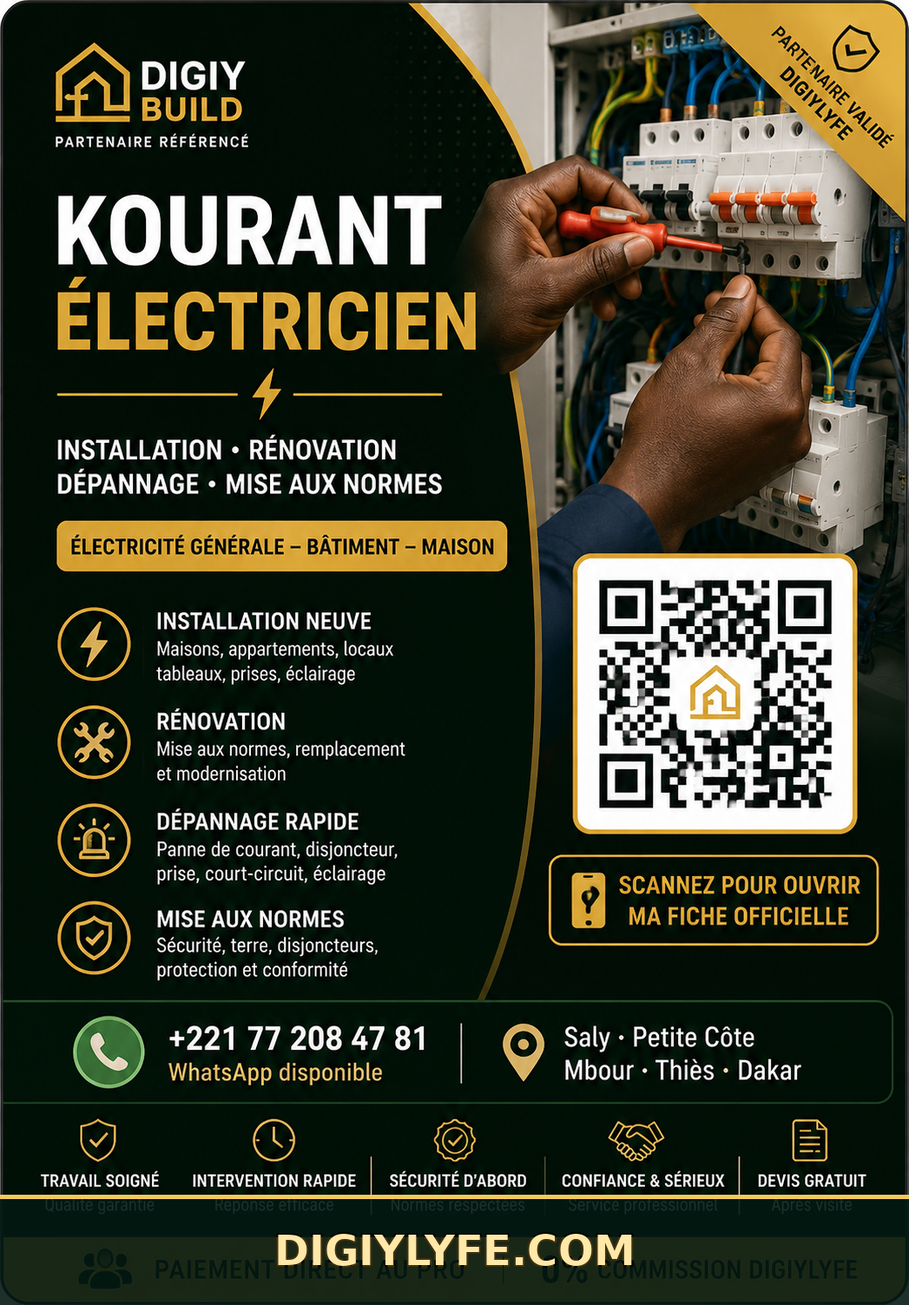
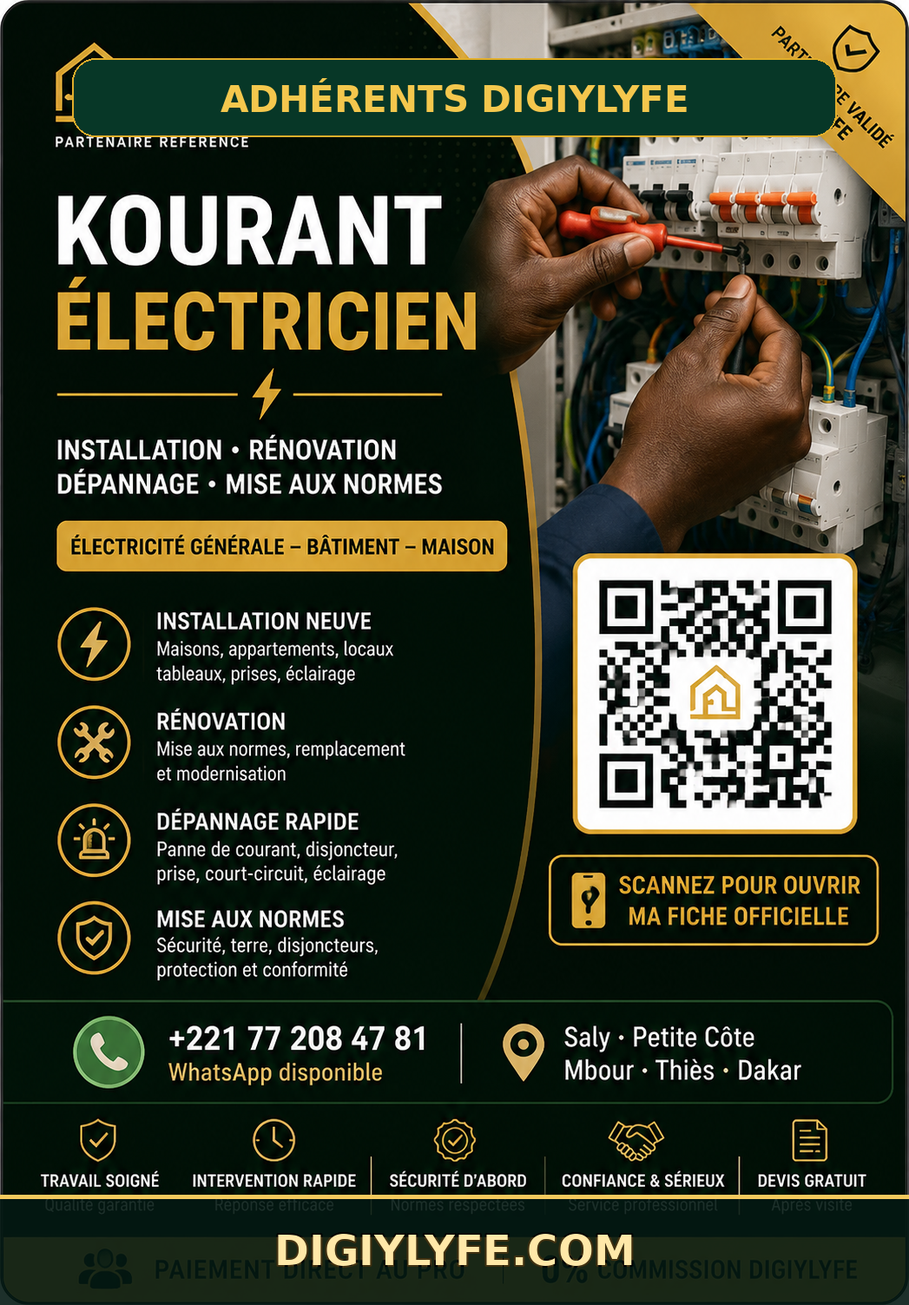
Kourant : carte et index en statut adhérent
* Ajouter correction temporaire Kourant adhérent

* Kourant : adhérents DIGIYLYFE et wording neutre

* Ajouter nettoyage final wording Kourant

* Kourant : finir le wording adhérent multilingue

* Nettoyer workflow temporaire Kourant

* Nettoyer workflow temporaire Kourant

---------

Changed region(s): [[0.0611, 0.0306, 0.9169, 0.1224]]

diff --git a/index.html b/index.html
@@ -18,19 +18,19 @@
 <body>
 <div class="wrap">
 <header class="topbar"><div class="brand"><div class="logo"><img alt="Logo DIGIYLYFE" src="https://digiylyfe.net/wp-content/uploads/2026/03/digiylyfe_logo_qr.jpeg"></div><div><div class="kicker" id="kicker"></div><div class="title">Zal &amp; Kourant</div><div class="sub" id="sub"></div></div></div><div class="lang"><button data-lang="fr">FR</button><button data-lang="en">EN</button><button data-lang="es">ES</button><button data-lang="de">DE</button><button data-lang="it">IT</button><button data-lang="nl">NL</button><button data-lang="ar">AR</button></div></header>
-<section class="hero"><main class="panel"><div class="poster"><img id="poster" alt="Zal et Kourant" src="https://digiylyfe.net/wp-content/uploads/2026/05/ChatGPT-Image-14-mai-2026-03_59_29.png"></div><div class="body"><h1>Zal &amp; Kourant</h1><p class="lead" id="lead"></p><div class="chips" id="chips"></div><div class="text" id="mainText"></div><div class="serviceBox"><h2 id="servicesTitle"></h2><ul id="services"></ul></div><div class="official" id="official"></div></div></main><aside class="panel side"><article class="qrCard"><div id="qrKicker"></div><img class="qrImg" id="qrImg" alt="QR Zal et Kourant"><div class="qrTitle" id="qrTitle"></div><div class="qrText" id="qrText"></div><div class="qrLink" id="qrLink"></div></article><div class="mini"><div class="miniLabel" id="tradeLabel"></div><div class="miniValue" id="tradeValue"></div><div class="miniHint" id="tradeHint"></div></div><div class="mini"><div class="miniLabel" id="zoneLabel"></div><div class="miniValue">Saly · Petite Côte</div><div class="miniHint" id="zoneHint"></div></div><div class="mini"><div class="miniLabel" id="priceLabel"></div><div class="miniValue" id="priceValue"></div><div class="miniHint" id="priceHint"></div></div><div class="actions"><a class="btn primary" id="waBtn"></a><a class="btn secondary" href="tel:+221772084781" id="callBtn"></a><a class="btn secondary" id="requestBtn"></a><button class="btn secondary" id="copyBtn"></button><button class="btn green" id="shareBtn"></button></div></aside></section>
+<section class="hero"><main class="panel"><div class="poster"><img id="poster" alt="Zal et Kourant" src="./carte-visite.png?v=20260814-adherents"></div><div class="body"><h1>Zal &amp; Kourant</h1><p class="lead" id="lead"></p><div class="chips" id="chips"></div><div class="text" id="mainText"></div><div class="serviceBox"><h2 id="servicesTitle"></h2><ul id="services"></ul></div><div class="official" id="official"></div></div></main><aside class="panel side"><article class="qrCard"><div id="qrKicker"></div><img class="qrImg" id="qrImg" alt="QR Zal et Kourant"><div class="qrTitle" id="qrTitle"></div><div class="qrText" id="qrText"></div><div class="qrLink" id="qrLink"></div></article><div class="mini"><div class="miniLabel" id="tradeLabel"></div><div class="miniValue" id="tradeValue"></div><div class="miniHint" id="tradeHint"></div></div><div class="mini"><div class="miniLabel" id="zoneLabel"></div><div class="miniValue">Saly · Petite Côte</div><div class="miniHint" id="zoneHint"></div></div><div class="mini"><div class="miniLabel" id="priceLabel"></div><div class="miniValue" id="priceValue"></div><div class="miniHint" id="priceHint"></div></div><div class="actions"><a class="btn primary" id="waBtn"></a><a class="btn secondary" href="tel:+221772084781" id="callBtn"></a><a class="btn secondary" id="requestBtn"></a><button class="btn secondary" id="copyBtn"></button><button class="btn green" id="shareBtn"></button></div></aside></section>
 <div class="foot" id="foot"></div></div>
 <nav class="bottom"><div class="bottomIn"><a id="galleryLink"><span>←</span><span id="galleryText"></span></a><a class="active" href="#"><span>📲</span><span>QR</span></a><a id="bottomWa"><span>💬</span><span>WhatsApp</span></a><button id="bottomShare"><span>📤</span><span id="shareBottom"></span></button></div></nav><div class="toast" id="toast"></div>
 <script>
 (function(){'use strict';const PHONE='221772084781',BASE='https://kourant.digiylyfe.com/';
 const P={
-fr:{kicker:'Je propose mes services',sub:'Électriciens · Saly · Petite Côte',lead:'Électriciens · installation · rénovation · dépannage',chips:['Contact direct','Électricité','Dépannage','Installation','Rénovation','Tableau','Éclairage','Saly'],main:'Installation neuve, rénovation, mise aux normes, tableau, disjoncteurs, terre, dépannage panne, prises, éclairage et petits chantiers de finition.',servicesTitle:'Services utiles',services:['Installation électrique neuve pour maison, boutique ou local.','Rénovation, mise aux normes, tableau, disjoncteurs et terre.','Dépannage panne, prise, éclairage et petits chantiers.','Intervention selon disponibilité, besoin et sécurité du chantier.'],official:'Cette fiche est une route directe entre le client et le professionnel. <strong>La valeur du business reste dans la main du pro local.</strong>',qrKicker:'📲 QR officiel DIGIYLYFE',qrTitle:'Scanne la fiche officielle',qrText:'Ce QR ouvre directement la fiche Zal & Kourant : métier, zone, contact direct, demande et partage.',tradeLabel:'Métier',tradeValue:'Électriciens',tradeHint:'Installation, rénovation, dépannage, tableau, prises et éclairage.',zoneLabel:'Zone',zoneHint:'Intervention selon disponibilité, visite et besoin du client.',priceLabel:'Prix',priceValue:'À partir de 10 000 FCFA',priceHint:'Selon la panne, le déplacement, le matériel et le chantier.',waBtn:'💬 WhatsApp direct',call:'📞 Appeler',request:'📄 Décrire mon besoin',copy:'📋 Copier la fiche',share:'📤 Partager',gallery:'Galerie',copied:'Lien copié',prompt:'Copie le lien :',shareText:'Électricité · contact direct · 0% commission · QR officiel DIGIYLYFE.',wa:'Bonjour Zal & Kourant, je viens de votre fiche officielle DIGIYLYFE pour un besoin en électricité.',foot:'DIGIY BUILD • fiche officielle • métier clair • contact direct • 0% commission'},
-en:{kicker:'I offer my services',sub:'Electricians · Saly · Petite Côte',lead:'Electricians · installation · renovation · troubleshooting',chips:['Direct contact','Electrical work','Troubleshooting','Installation','Renovation','Panel','Lighting','Saly'],main:'New electrical installation, renovation, standards upgrades, panels, breakers, grounding, fault repair, sockets, lighting and finishing work.',servicesTitle:'Useful services',services:['New electrical installation for a house, shop or business space.','Renovation, standards upgrade, panel, breakers and grounding.','Fault repair, sockets, lighting and small finishing jobs.','Work according to availability, need and site safety.'],official:'This profile is a direct route between the client and the professional. <strong>The business value stays in the hands of the local pro.</strong>',qrKicker:'📲 Official DIGIYLYFE QR',qrTitle:'Scan the official profile',qrText:'This QR directly opens the Zal & Kourant profile: trade, area, direct contact, request and sharing.',tradeLabel:'Trade',tradeValue:'Electricians',tradeHint:'Installation, renovation, troubleshooting, panels, sockets and lighting.',zoneLabel:'Area',zoneHint:'Work according to availability, visit and client need.',priceLabel:'Price',priceValue:'From 10,000 FCFA',priceHint:'Depends on the fault, travel, materials and worksite.',waBtn:'💬 Direct WhatsApp',call:'📞 Call',request:'📄 Describe my need',copy:'📋 Copy profile',share:'📤 Share',gallery:'Gallery',copied:'Link copied',prompt:'Copy this link:',shareText:'Electrical work · direct contact · 0% commission · official DIGIYLYFE QR.',wa:'Hello Zal & Kourant, I am coming from your official DIGIYLYFE profile for an electrical need.',foot:'DIGIY BUILD • official profile • clear trade • direct contact • 0% commission'},
-es:{kicker:'Ofrezco mis servicios',sub:'Electricistas · Saly · Petite Côte',lead:'Electricistas · instalación · renovación · reparación',chips:['Contacto directo','Electricidad','Reparación','Instalación','Renovación','Cuadro eléctrico','Iluminación','Saly'],main:'Instalación eléctrica nueva, renovación, puesta a norma, cuadros, disyuntores, tierra, reparación de averías, enchufes e iluminación.',servicesTitle:'Servicios útiles',services:['Instalación eléctrica nueva para vivienda, tienda o local.','Renovación, puesta a norma, cuadro, disyuntores y tierra.','Reparación de averías, enchufes, iluminación y acabados.','Intervención según disponibilidad, necesidad y seguridad.'],official:'Esta ficha es una ruta directa entre el cliente y el profesional. <strong>El valor del negocio queda en manos del profesional local.</strong>',qrKicker:'📲 QR oficial DIGIYLYFE',qrTitle:'Escanea la ficha oficial',qrText:'Este QR abre directamente la ficha Zal & Kourant: oficio, zona, contacto, solicitud y difusión.',tradeLabel:'Oficio',tradeValue:'Electricistas',tradeHint:'Instalación, renovación, reparación, cuadros, enchufes e iluminación.',zoneLabel:'Zona',zoneHint:'Intervención según disponibilidad, visita y necesidad.',priceLabel:'Precio',priceValue:'Desde 10 000 FCFA',priceHint:'Depende de la avería, desplazamiento, material y obra.',waBtn:'💬 WhatsApp directo',call:'📞 Llamar',request:'📄 Describir mi necesidad',copy:'📋 Copiar ficha',share:'📤 Compartir',gallery:'Galería',copied:'Enlace copiado',prompt:'Copia este enlace:',shareText:'Electricidad · contacto directo · 0% comisión · QR oficial DIGIYLYFE.',wa:'Hola Zal & Kourant, vengo de su ficha oficial DIGIYLYFE por una necesidad eléctrica.',foot:'DIGIY BUILD • ficha oficial • oficio claro • contacto directo • 0% comisión'},
-de:{kicker:'Ich biete meine Dienste an',sub:'Elektriker · Saly · Petite Côte',lead:'Elektriker · Installation · Renovierung · Reparatur',chips:['Direkter Kontakt','Elektrik','Reparatur','Installation','Renovierung','Schalttafel','Beleuchtung','Saly'],main:'Elektroinstallation, Renovierung, Normenanpassung, Schalttafeln, Sicherungen, Erdung, Fehlersuche, Steckdosen und Beleuchtung.',servicesTitle:'Nützliche Leistungen',services:['Neue Elektroinstallation für Haus, Geschäft oder Lokal.','Renovierung, Normenanpassung, Schalttafel, Sicherungen und Erdung.','Fehlersuche, Steckdosen, Beleuchtung und kleine Arbeiten.','Einsatz nach Verfügbarkeit, Bedarf und Baustellensicherheit.'],official:'Dieses Profil ist ein direkter Weg zwischen Kunde und Fachmann. <strong>Der Geschäftswert bleibt beim lokalen Profi.</strong>',qrKicker:'📲 Offizieller DIGIYLYFE-QR',qrTitle:'Offizielles Profil scannen',qrText:'Dieser QR öffnet direkt das Profil Zal & Kourant: Handwerk, Gebiet, Kontakt, Anfrage und Teilen.',tradeLabel:'Handwerk',tradeValue:'Elektriker',tradeHint:'Installation, Renovierung, Reparatur, Schalttafeln, Steckdosen und Beleuchtung.',zoneLabel:'Gebiet',zoneHint:'Einsatz nach Verfügbarkeit, Besichtigung und Kundenbedarf.',priceLabel:'Preis',priceValue:'Ab 10.000 FCFA',priceHint:'Abhängig von Fehler, Anfahrt, Material und Baustelle.',waBtn:'💬 Direktes WhatsApp',call:'📞 Anrufen',request:'📄 Bedarf beschreiben',copy:'📋 Profil kopieren',share:'📤 Teilen',gallery:'Galerie',copied:'Link kopiert',prompt:'Diesen Link kopieren:',shareText:'Elektrik · direkter Kontakt · 0% Provision · offizieller DIGIYLYFE-QR.',wa:'Hallo Zal & Kourant, ich komme über Ihr offizielles DIGIYLYFE-Profil wegen eines elektrischen Bedarfs.',foot:'DIGIY BUILD • offizielles Profil • klares Handwerk • direkter Kontakt • 0% Provision'},
-it:{kicker:'Propongo i miei servizi',sub:'Elettricisti · Saly · Petite Côte',lead:'Elettricisti · installazione · ristrutturazione · riparazione',chips:['Contatto diretto','Elettricità','Riparazione','Installazione','Ristrutturazione','Quadro','Illuminazione','Saly'],main:'Nuovi impianti elettrici, ristrutturazione, messa a norma, quadri, interruttori, terra, guasti, prese e illuminazione.',servicesTitle:'Servizi utili',services:['Nuovo impianto elettrico per casa, negozio o locale.','Ristrutturazione, messa a norma, quadro, interruttori e terra.','Riparazione guasti, prese, illuminazione e finiture.','Intervento secondo disponibilità, bisogno e sicurezza.'],official:'Questa scheda è una via diretta tra cliente e professionista. <strong>Il valore del business resta al professionista locale.</strong>',qrKicker:'📲 QR ufficiale DIGIYLYFE',qrTitle:'Scansiona la scheda ufficiale',qrText:'Questo QR apre direttamente la scheda Zal & Kourant: mestiere, zona, contatto, richiesta e condivisione.',tradeLabel:'Mestiere',tradeValue:'Elettricisti',tradeHint:'Installazione, ristrutturazione, riparazione, quadri, prese e illuminazione.',zoneLabel:'Zona',zoneHint:'Intervento secondo disponibilità, visita e bisogno.',priceLabel:'Prezzo',priceValue:'Da 10.000 FCFA',priceHint:'Dipende dal guasto, spostamento, materiali e cantiere.',waBtn:'💬 WhatsApp diretto',call:'📞 Chiama',request:'📄 Descrivi il bisogno',copy:'📋 Copia scheda',share:'📤 Condividi',gallery:'Galleria',copied:'Link copiato',prompt:'Copia questo link:',shareText:'Elettricità · contatto diretto · 0% commissione · QR ufficiale DIGIYLYFE.',wa:'Ciao Zal & Kourant, arrivo dalla vostra scheda ufficiale DIGIYLYFE per un bisogno elettrico.',foot:'DIGIY BUILD • scheda ufficiale • mestiere chiaro • contatto diretto • 0% commissione'},
-nl:{kicker:'Ik bied mijn diensten aan',sub:'Elektriciens · Saly · Petite Côte',lead:'Elektriciens · installatie · renovatie · reparatie',chips:['Direct contact','Elektriciteit','Reparatie','Installatie','Renovatie','Schakelkast','Verlichting','Saly'],main:'Nieuwe elektrische installatie, renovatie, normen, schakelkasten, automaten, aarding, storingen, stopcontacten en verlichting.',servicesTitle:'Nuttige diensten',services:['Nieuwe elektrische installatie voor woning, winkel of ruimte.','Renovatie, normen, schakelkast, automaten en aarding.','Storingen, stopcontacten, verlichting en afwerking.','Werk volgens beschikbaarheid, behoefte en veiligheid.'],official:'Dit profiel is een directe route tussen klant en vakman. <strong>De bedrijfswaarde blijft bij de lokale professional.</strong>',qrKicker:'📲 Officiële DIGIYLYFE-QR',qrTitle:'Scan het officiële profiel',qrText:'Deze QR opent direct het profiel Zal & Kourant: vak, zone, contact, aanvraag en delen.',tradeLabel:'Vak',tradeValue:'Elektriciens',tradeHint:'Installatie, renovatie, reparatie, schakelkasten, stopcontacten en verlichting.',zoneLabel:'Zone',zoneHint:'Werk volgens beschikbaarheid, bezoek en klantbehoefte.',priceLabel:'Prijs',priceValue:'Vanaf 10.000 FCFA',priceHint:'Afhankelijk van storing, verplaatsing, materiaal en werf.',waBtn:'💬 Direct WhatsApp',call:'📞 Bellen',request:'📄 Mijn behoefte beschrijven',copy:'📋 Profiel kopiëren',share:'📤 Delen',gallery:'Galerij',copied:'Link gekopieerd',prompt:'Kopieer deze link:',shareText:'Elektriciteit · direct contact · 0% commissie · officiële DIGIYLYFE-QR.',wa:'Hallo Zal & Kourant, ik kom via uw officiële DIGIYLYFE-profiel voor elektrisch werk.',foot:'DIGIY BUILD • officieel profiel • duidelijk vak • direct contact • 0% commissie'},
-ar:{kicker:'أقدم خدماتي',sub:'كهربائيون · سالي · الساحل الصغير',lead:'كهرباء · تركيب · تجديد · إصلاح',chips:['تواصل مباشر','كهرباء','إصلاح','تركيب','تجديد','لوحة كهربائية','إنارة','سالي'],main:'تركيبات كهربائية جديدة وتجديد ومطابقة للمعايير ولوحات وقواطع وتأريض وإصلاح أعطال ومقابس وإنارة.',servicesTitle:'خدمات مفيدة',services:['تركيب كهربائي جديد للمنزل أو المتجر أو المحل.','تجديد ومطابقة للمعايير ولوحة وقواطع وتأريض.','إصلاح الأعطال والمقابس والإنارة وأعمال التشطيب.','التدخل حسب التوفر والحاجة وسلامة الورشة.'],official:'هذا الملف طريق مباشر بين العميل والمهني. <strong>تبقى قيمة العمل في يد المهني المحلي.</strong>',qrKicker:'📲 رمز QR رسمي من DIGIYLYFE',qrTitle:'امسح الملف الرسمي',qrText:'يفتح هذا الرمز ملف Zal & Kourant مباشرة: المهنة والمنطقة والتواصل والطلب والمشاركة.',tradeLabel:'المهنة',tradeValue:'كهربائيون',tradeHint:'تركيب وتجديد وإصلاح ولوحات ومقابس وإنارة.',zoneLabel:'المنطقة',zoneHint:'التدخل حسب التوفر والمعاينة وحاجة العميل.',priceLabel:'السعر',priceValue:'ابتداءً من 10,000 فرنك',priceHint:'حسب العطل والتنقل والمواد والورشة.',waBtn:'💬 واتساب مباشر',call:'📞 اتصال',request:'📄 وصف حاجتي',copy:'📋 نسخ الملف',share:'📤 مشاركة',gallery:'المعرض',copied:'تم نسخ الرابط',prompt:'انسخ هذا الرابط:',shareText:'كهرباء · تواصل مباشر · عمولة صفر · رمز DIGIYLYFE رسمي.',wa:'مرحباً Zal & Kourant، وصلت من ملفكم الرسمي على DIGIYLYFE ولدي حاجة كهربائية.',foot:'DIGIY BUILD • ملف رسمي • مهنة واضحة • تواصل مباشر • عمولة صفر'}
+fr:{kicker:'Je propose mes services',sub:'Électriciens · Saly · Petite Côte',lead:'Électriciens · installation · rénovation · dépannage',chips:['Contact direct','Électricité','Dépannage','Installation','Rénovation','Tableau','Éclairage','Saly'],main:'Installation neuve, rénovation, mise aux normes, tableau, disjoncteurs, terre, dépannage panne, prises, éclairage et petits chantiers de finition.',servicesTitle:'Services utiles',services:['Installation électrique neuve pour maison, boutique ou local.','Rénovation, mise aux normes, tableau, disjoncteurs et terre.','Dépannage panne, prise, éclairage et petits chantiers.','Intervention selon disponibilité, besoin et sécurité du chantier.'],official:'<strong>ADHÉRENTS DIGIYLYFE.</strong><br>Cette fiche est une route directe entre le client et le professionnel. <strong>La valeur du business reste dans la main du pro local.</strong>',qrKicker:'📲 QR DIGIYLYFE',qrTitle:'Scanne la fiche DIGIYLYFE',qrText:'Ce QR ouvre directement la fiche Zal & Kourant : métier, zone, contact direct, demande et partage.',tradeLabel:'Métier',tradeValue:'Électriciens',tradeHint:'Installation, rénovation, dépannage, tableau, prises et éclairage.',zoneLabel:'Zone',zoneHint:'Intervention selon disponibilité, visite et besoin du client.',priceLabel:'Prix',priceValue:'À partir de 10 000 FCFA',priceHint:'Selon la panne, le déplacement, le matériel et le chantier.',waBtn:'💬 WhatsApp direct',call:'📞 Appeler',request:'📄 Décrire mon besoin',copy:'📋 Copier la fiche',share:'📤 Partager',gallery:'Galerie',copied:'Lien copié',prompt:'Copie le lien :',shareText:'Électricité · adhérents DIGIYLYFE · contact direct · 0% commission.',wa:'Bonjour Zal & Kourant, je viens de votre fiche DIGIYLYFE pour un besoin en électricité.',foot:'DIGIY BUILD • adhérents DIGIYLYFE • métier clair • contact direct • 0% commission'},
+en:{kicker:'I offer my services',sub:'Electricians · Saly · Petite Côte',lead:'Electricians · installation · renovation · troubleshooting',chips:['Direct contact','Electrical work','Troubleshooting','Installation','Renovation','Panel','Lighting','Saly'],main:'New electrical installation, renovation, standards upgrades, panels, breakers, grounding, fault repair, sockets, lighting and finishing work.',servicesTitle:'Useful services',services:['New electrical installation for a house, shop or business space.','Renovation, standards upgrade, panel, breakers and grounding.','Fault repair, sockets, lighting and small finishing jobs.','Work according to availability, need and site safety.'],official:'<strong>DIGIYLYFE MEMBERS.</strong><br>This profile is a direct route between the client and the professional. <strong>The business value stays in the hands of the local pro.</strong>',qrKicker:'📲 DIGIYLYFE QR',qrTitle:'Scan the DIGIYLYFE profile',qrText:'This QR directly opens the Zal & Kourant profile: trade, area, direct contact, request and sharing.',tradeLabel:'Trade',tradeValue:'Electricians',tradeHint:'Installation, renovation, troubleshooting, panels, sockets and lighting.',zoneLabel:'Area',zoneHint:'Work according to availability, visit and client need.',priceLabel:'Price',priceValue:'From 10,000 FCFA',priceHint:'Depends on the fault, travel, materials and worksite.',waBtn:'💬 Direct WhatsApp',call:'📞 Call',request:'📄 Describe my need',copy:'📋 Copy profile',share:'📤 Share',gallery:'Gallery',copied:'Link copied',prompt:'Copy this link:',shareText:'Electrical work · direct contact · 0% commission · DIGIYLYFE QR.',wa:'Hello Zal & Kourant, I am coming from your DIGIYLYFE profile for an electrical need.',foot:'DIGIY BUILD • DIGIYLYFE profile • clear trade • direct contact • 0% commission'},
+es:{kicker:'Ofrezco mis servicios',sub:'Electricistas · Saly · Petite Côte',lead:'Electricistas · instalación · renovación · reparación',chips:['Contacto directo','Electricidad','Reparación','Instalación','Renovación','Cuadro eléctrico','Iluminación','Saly'],main:'Instalación eléctrica nueva, renovación, puesta a norma, cuadros, disyuntores, tierra, reparación de averías, enchufes e iluminación.',servicesTitle:'Servicios útiles',services:['Instalación eléctrica nueva para vivienda, tienda o local.','Renovación, puesta a norma, cuadro, disyuntores y tierra.','Reparación de averías, enchufes, iluminación y acabados.','Intervención según disponibilidad, necesidad y seguridad.'],official:'<strong>MIEMBROS DIGIYLYFE.</strong><br>Esta ficha es una ruta directa entre el cliente y el profesional. <strong>El valor del negocio queda en manos del profesional local.</strong>',qrKicker:'📲 QR DIGIYLYFE',qrTitle:'Escanea la ficha DIGIYLYFE',qrText:'Este QR abre directamente la ficha Zal & Kourant: oficio, zona, contacto, solicitud y difusión.',tradeLabel:'Oficio',tradeValue:'Electricistas',tradeHint:'Instalación, renovación, reparación, cuadros, enchufes e iluminación.',zoneLabel:'Zona',zoneHint:'Intervención según disponibilidad, visita y necesidad.',priceLabel:'Precio',priceValue:'Desde 10 000 FCFA',priceHint:'Depende de la avería, desplazamiento, material y obra.',waBtn:'💬 WhatsApp directo',call:'📞 Llamar',request:'📄 Describir mi necesidad',copy:'📋 Copiar ficha',share:'📤 Compartir',gallery:'Galería',copied:'Enlace copiado',prompt:'Copia este enlace:',shareText:'Electricidad · contacto directo · 0% comisión · QR DIGIYLYFE.',wa:'Hola Zal & Kourant, vengo de su ficha DIGIYLYFE por una necesidad eléctrica.',foot:'DIGIY BUILD • ficha DIGIYLYFE • oficio claro • contacto directo • 0% comisión'},
+de:{kicker:'Ich biete meine Dienste an',sub:'Elektriker · Saly · Petite Côte',lead:'Elektriker · Installation · Renovierung · Reparatur',chips:['Direkter Kontakt','Elektrik','Reparatur','Installation','Renovierung','Schalttafel','Beleuchtung','Saly'],main:'Elektroinstallation, Renovierung, Normenanpassung, Schalttafeln, Sicherungen, Erdung, Fehlersuche, Steckdosen und Beleuchtung.',servicesTitle:'Nützliche Leistungen',services:['Neue Elektroinstallation für Haus, Geschäft oder Lokal.','Renovierung, Normenanpassung, Schalttafel, Sicherungen und Erdung.','Fehlersuche, Steckdosen, Beleuchtung und kleine Arbeiten.','Einsatz nach Verfügbarkeit, Bedarf und Baustellensicherheit.'],official:'<strong>DIGIYLYFE-MITGLIEDER.</strong><br>Dieses Profil ist ein direkter Weg zwischen Kunde und Fachmann. <strong>Der Geschäftswert bleibt beim lokalen Profi.</strong>',qrKicker:'📲 DIGIYLYFE-QR',qrTitle:'DIGIYLYFE-Profil scannen',qrText:'Dieser QR öffnet direkt das Profil Zal & Kourant: Handwerk, Gebiet, Kontakt, Anfrage und Teilen.',tradeLabel:'Handwerk',tradeValue:'Elektriker',tradeHint:'Installation, Renovierung, Reparatur, Schalttafeln, Steckdosen und Beleuchtung.',zoneLabel:'Gebiet',zoneHint:'Einsatz nach Verfügbarkeit, Besichtigung und Kundenbedarf.',priceLabel:'Preis',priceValue:'Ab 10.000 FCFA',priceHint:'Abhängig von Fehler, Anfahrt, Material und Baustelle.',waBtn:'💬 Direktes WhatsApp',call:'📞 Anrufen',request:'📄 Bedarf beschreiben',copy:'📋 Profil kopieren',share:'📤 Teilen',gallery:'Galerie',copied:'Link kopiert',prompt:'Diesen Link kopieren:',shareText:'Elektrik · direkter Kontakt · 0% Provision · DIGIYLYFE-QR.',wa:'Hallo Zal & Kourant, ich komme über Ihr DIGIYLYFE-Profil wegen eines elektrischen Bedarfs.',foot:'DIGIY BUILD • DIGIYLYFE-Profil • klares Handwerk • direkter Kontakt • 0% Provision'},
+it:{kicker:'Propongo i miei servizi',sub:'Elettricisti · Saly · Petite Côte',lead:'Elettricisti · installazione · ristrutturazione · riparazione',chips:['Contatto diretto','Elettricità','Riparazione','Installazione','Ristrutturazione','Quadro','Illuminazione','Saly'],main:'Nuovi impianti elettrici, ristrutturazione, messa a norma, quadri, interruttori, terra, guasti, prese e illuminazione.',servicesTitle:'Servizi utili',services:['Nuovo impianto elettrico per casa, negozio o locale.','Ristrutturazione, messa a norma, quadro, interruttori e terra.','Riparazione guasti, prese, illuminazione e finiture.','Intervento secondo disponibilità, bisogno e sicurezza.'],official:'<strong>ADERENTI DIGIYLYFE.</strong><br>Questa scheda è una via diretta tra cliente e professionista. <strong>Il valore del business resta al professionista locale.</strong>',qrKicker:'📲 QR DIGIYLYFE',qrTitle:'Scansiona la scheda DIGIYLYFE',qrText:'Questo QR apre direttamente la scheda Zal & Kourant: mestiere, zona, contatto, richiesta e condivisione.',tradeLabel:'Mestiere',tradeValue:'Elettricisti',tradeHint:'Installazione, ristrutturazione, riparazione, quadri, prese e illuminazione.',zoneLabel:'Zona',zoneHint:'Intervento secondo disponibilità, visita e bisogno.',priceLabel:'Prezzo',priceValue:'Da 10.000 FCFA',priceHint:'Dipende dal guasto, spostamento, materiali e cantiere.',waBtn:'💬 WhatsApp diretto',call:'📞 Chiama',request:'📄 Descrivi il bisogno',copy:'📋 Copia scheda',share:'📤 Condividi',gallery:'Galleria',copied:'Link copiato',prompt:'Copia questo link:',shareText:'Elettricità · contatto diretto · 0% commissione · QR DIGIYLYFE.',wa:'Ciao Zal & Kourant, arrivo dalla vostra scheda DIGIYLYFE per un bisogno elettrico.',foot:'DIGIY BUILD • scheda DIGIYLYFE • mestiere chiaro • contatto diretto • 0% commissione'},
+nl:{kicker:'Ik bied mijn diensten aan',sub:'Elektriciens · Saly · Petite Côte',lead:'Elektriciens · installatie · renovatie · reparatie',chips:['Direct contact','Elektriciteit','Reparatie','Installatie','Renovatie','Schakelkast','Verlichting','Saly'],main:'Nieuwe elektrische installatie, renovatie, normen, schakelkasten, automaten, aarding, storingen, stopcontacten en verlichting.',servicesTitle:'Nuttige diensten',services:['Nieuwe elektrische installatie voor woning, winkel of ruimte.','Renovatie, normen, schakelkast, automaten en aarding.','Storingen, stopcontacten, verlichting en afwerking.','Werk volgens beschikbaarheid, behoefte en veiligheid.'],official:'<strong>DIGIYLYFE-LEDEN.</strong><br>Dit profiel is een directe route tussen klant en vakman. <strong>De bedrijfswaarde blijft bij de lokale professional.</strong>',qrKicker:'📲 DIGIYLYFE-QR',qrTitle:'Scan het DIGIYLYFE-profiel',qrText:'Deze QR opent direct het profiel Zal & Kourant: vak, zone, contact, aanvraag en delen.',tradeLabel:'Vak',tradeValue:'Elektriciens',tradeHint:'Installatie, renovatie, reparatie, schakelkasten, stopcontacten en verlichting.',zoneLabel:'Zone',zoneHint:'Werk volgens beschikbaarheid, bezoek en klantbehoefte.',priceLabel:'Prijs',priceValue:'Vanaf 10.000 FCFA',priceHint:'Afhankelijk van storing, verplaatsing, materiaal en werf.',waBtn:'💬 Direct WhatsApp',call:'📞 Bellen',request:'📄 Mijn behoefte beschrijven',copy:'📋 Profiel kopiëren',share:'📤 Delen',gallery:'Galerij',copied:'Link gekopieerd',prompt:'Kopieer deze link:',shareText:'Elektriciteit · direct contact · 0% commissie · DIGIYLYFE-QR.',wa:'Hallo Zal & Kourant, ik kom via uw DIGIYLYFE-profiel voor elektrisch werk.',foot:'DIGIY BUILD • DIGIYLYFE-profiel • duidelijk vak • direct contact • 0% commissie'},
+ar:{kicker:'أقدم خدماتي',sub:'كهربائيون · سالي · الساحل الصغير',lead:'كهرباء · تركيب · تجديد · إصلاح',chips:['تواصل مباشر','كهرباء','إصلاح','تركيب','تجديد','لوحة كهربائية','إنارة','سالي'],main:'تركيبات كهربائية جديدة وتجديد ومطابقة للمعايير ولوحات وقواطع وتأريض وإصلاح أعطال ومقابس وإنارة.',servicesTitle:'خدمات مفيدة',services:['تركيب كهربائي جديد للمنزل أو المتجر أو المحل.','تجديد ومطابقة للمعايير ولوحة وقواطع وتأريض.','إصلاح الأعطال والمقابس والإنارة وأعمال التشطيب.','التدخل حسب التوفر والحاجة وسلامة الورشة.'],official:'<strong>أعضاء DIGIYLYFE.</strong><br>هذا الملف طريق مباشر بين العميل والمهني. <strong>تبقى قيمة العمل في يد المهني المحلي.</strong>',qrKicker:'📲 رمز QR من DIGIYLYFE',qrTitle:'امسح ملف DIGIYLYFE',qrText:'يفتح هذا الرمز ملف Zal & Kourant مباشرة: المهنة والمنطقة والتواصل والطلب والمشاركة.',tradeLabel:'المهنة',tradeValue:'كهربائيون',tradeHint:'تركيب وتجديد وإصلاح ولوحات ومقابس وإنارة.',zoneLabel:'المنطقة',zoneHint:'التدخل حسب التوفر والمعاينة وحاجة العميل.',priceLabel:'السعر',priceValue:'ابتداءً من 10,000 فرنك',priceHint:'حسب العطل والتنقل والمواد والورشة.',waBtn:'💬 واتساب مباشر',call:'📞 اتصال',request:'📄 وصف حاجتي',copy:'📋 نسخ الملف',share:'📤 مشاركة',gallery:'المعرض',copied:'تم نسخ الرابط',prompt:'انسخ هذا الرابط:',shareText:'كهرباء · تواصل مباشر · عمولة صفر · رمز DIGIYLYFE.',wa:'مرحباً Zal & Kourant، وصلت من ملفكم على DIGIYLYFE ولدي حاجة كهربائية.',foot:'DIGIY BUILD • أعضاء DIGIYLYFE • مهنة واضحة • تواصل مباشر • عمولة صفر'}
 };
 function pick(){let q=new URLSearchParams(location.search).get('lang');try{if(!P[q])q=localStorage.getItem('digiy-lang')}catch(e){}if(!P[q])q=(navigator.language||'fr').slice(0,2).toLowerCase();return P[q]?q:'fr'}let lang=pick();
 function profile(){const u=new URL(BASE);u.searchParams.set('lang',lang);return u.toString()}function wa(){return 'https://wa.me/'+PHONE+'?text='+encodeURIComponent(P[lang].wa)}function request(){const u=new URL('https://build.digiylyfe.com/request.html');u.searchParams.set('slug','partenaires-zal-kourant');u.searchParams.set('nom','Zal & Kourant');u.searchParams.set('metier',P[lang].tradeValue);u.searchParams.set('ville','Saly');u.searchParams.set('lang',lang);return u.toString()}
